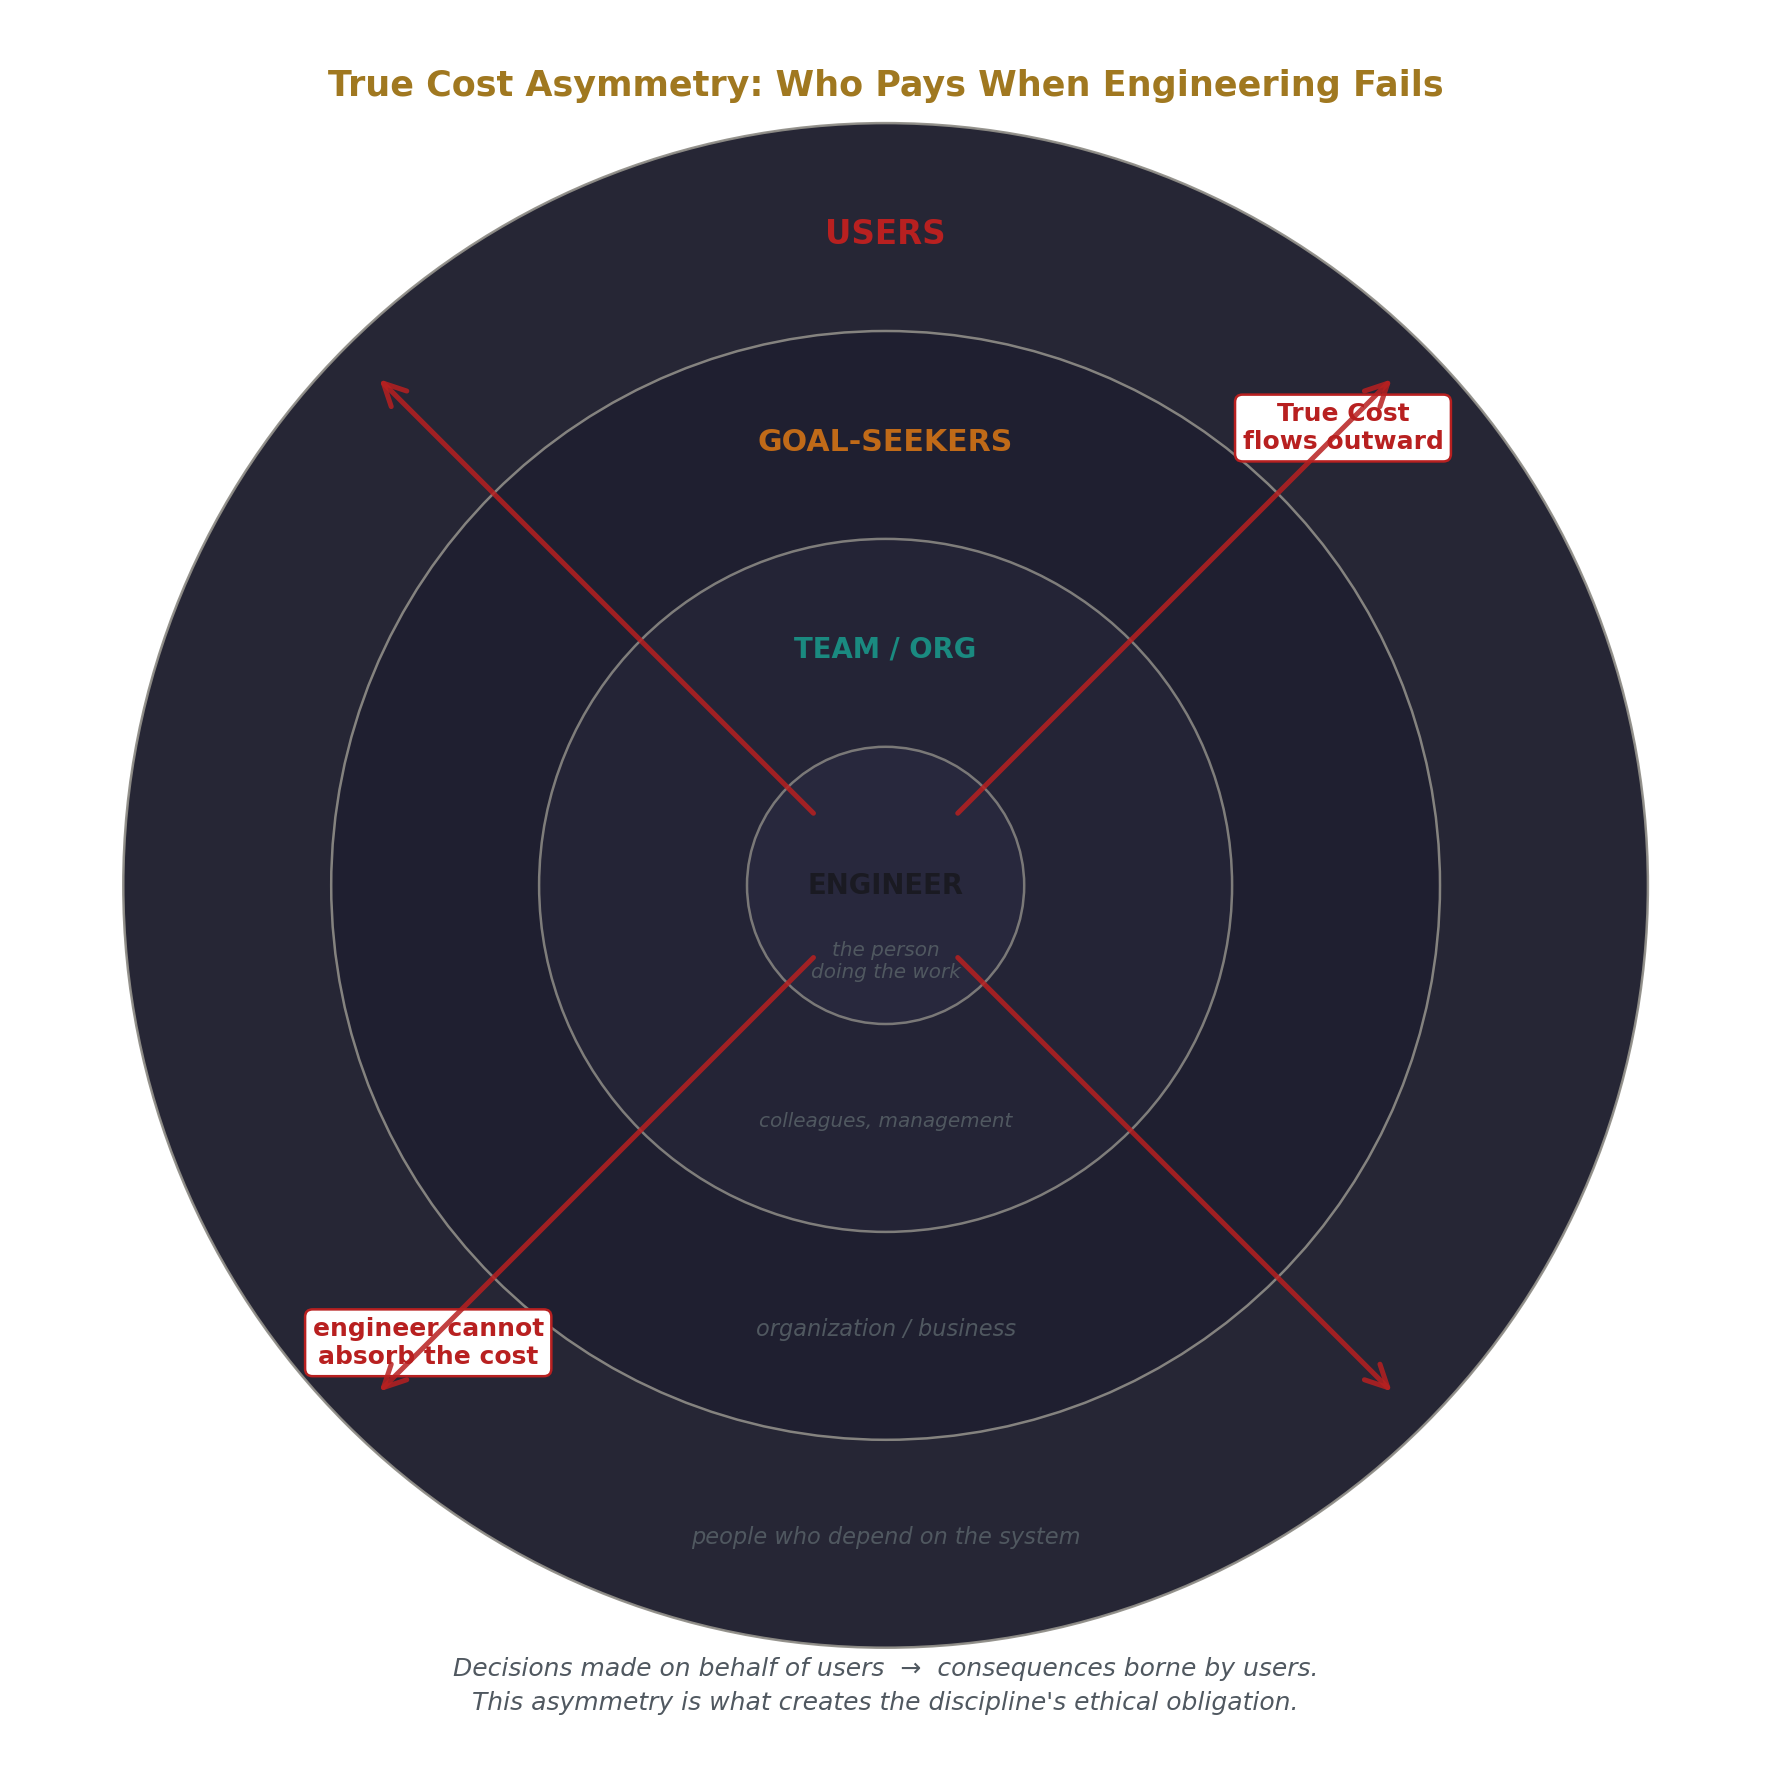
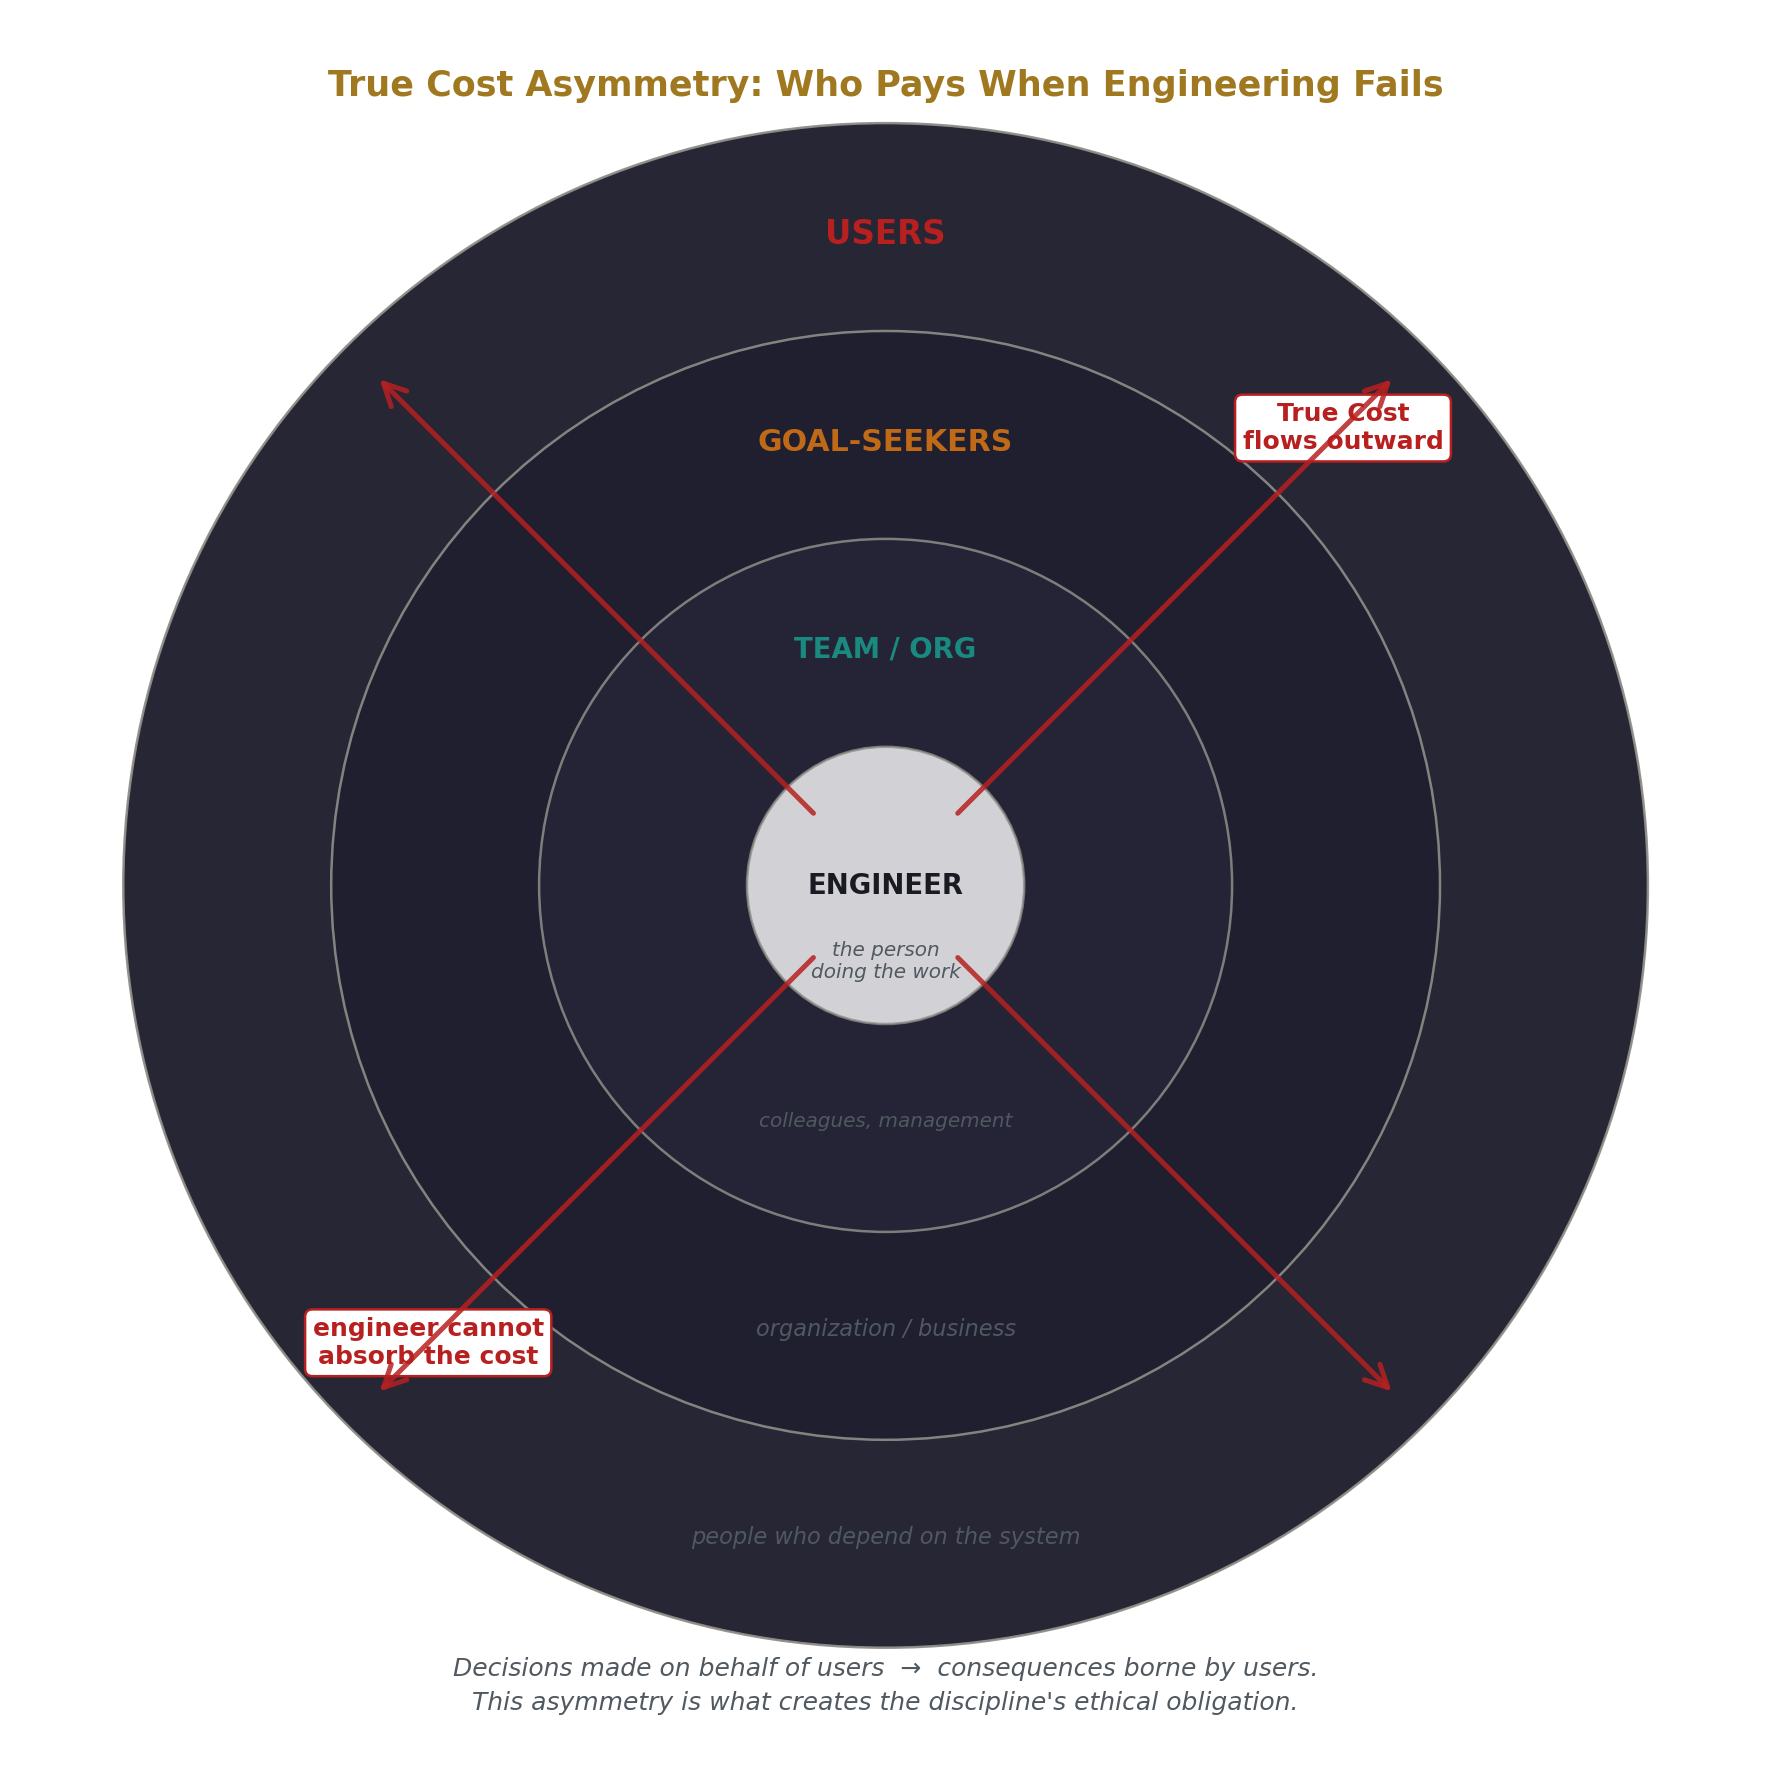
Update All

Changed region(s): [[0.4037, 0.4037, 0.5901, 0.5901]]

diff --git a/papers/papers/ENG/HOWL-ENG-1-2026/code/diagrams.py b/papers/papers/ENG/HOWL-ENG-1-2026/code/diagrams.py
@@ -561,7 +561,7 @@ rings = [
     (5.5, '#1a1a2a', 0.95, 'USERS', 'people who depend on the system'),
     (4.0, '#1f1f30', 0.9, 'GOAL-SEEKERS', 'organization / business'),
     (2.5, '#252538', 0.85, 'TEAM / ORG', 'colleagues, management'),
-    (1.0, '#2a2a40', 0.8, 'ENGINEER', 'the person doing the work'),
+    (1.0, '#ffffff', 0.8, 'ENGINEER', 'the person doing the work'),
 ]
 
 ring_labels = []

diff --git a/papers/papers/ENG/HOWL-ENG-1-2026/manuscript.md b/papers/papers/ENG/HOWL-ENG-1-2026/manuscript.md
@@ -35,8 +35,6 @@ These two sentences together are the entire definition. The remainder is exposit
 
 ## 3. Clause by clause
 
-![Fig. 6: Alignment basin — 90° aligns with gravity, 89° and 91° fall below the collapse threshold.](./figures/eng01_06_bridge_alignment_basin.png)
-
 ### Evaluating trade-offs
 
 This is the activity proper. It distinguishes engineering from execution. Someone running cable in a datacenter to a layout that has already been decided is executing; the layout was designed by someone evaluating where the bundles should run, what the cooling implications are, how the cable lengths affect signal integrity, and which paths leave room for future expansion. Both activities are valuable. Only the second is engineering.
@@ -48,6 +46,8 @@ The trade-offs must be live. A senior ops engineer who has applied the same data
 What the evaluation seeks. Alignment is the configuration of system parameters such that the system actually achieves its goals under its constraints. The bridge support set at 90 degrees to the deck is aligned with gravity; the load resolves into the ground. At 89 degrees the load path no longer matches the constraint, and the structure collapses. The number 90 is not arbitrary — it is the value at which the variables of the design align with the constants of physics.
 
 In software the constants are things like cache line widths, network round-trip times, the speed of light across a continent, the failure rates of consumer hardware. The variables are things like data layout, replication topology, batch sizes, retry policies. Engineering is finding the values of the variables that align with the constants such that the system behaves as intended. Misalignment is what failed engineering produces.
+
+![Fig. 6: Alignment basin — 90° aligns with gravity, 89° and 91° fall below the collapse threshold.](./figures/eng01_06_bridge_alignment_basin.png)
 
 ### Efficiently
 